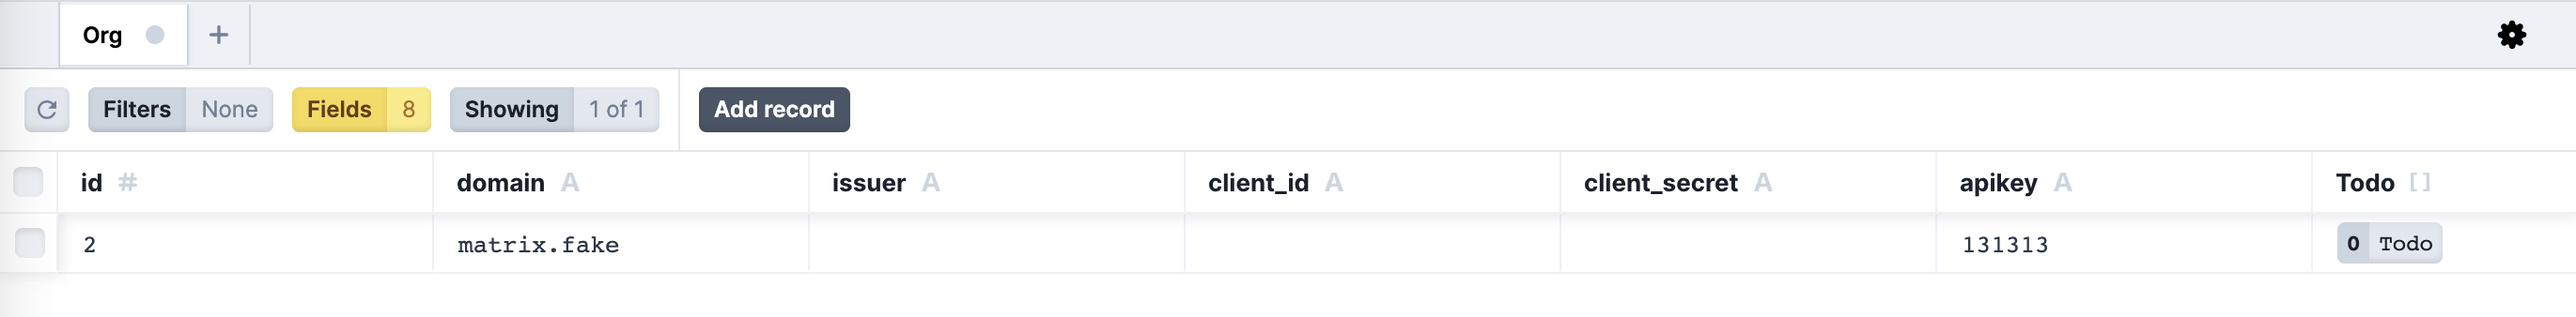
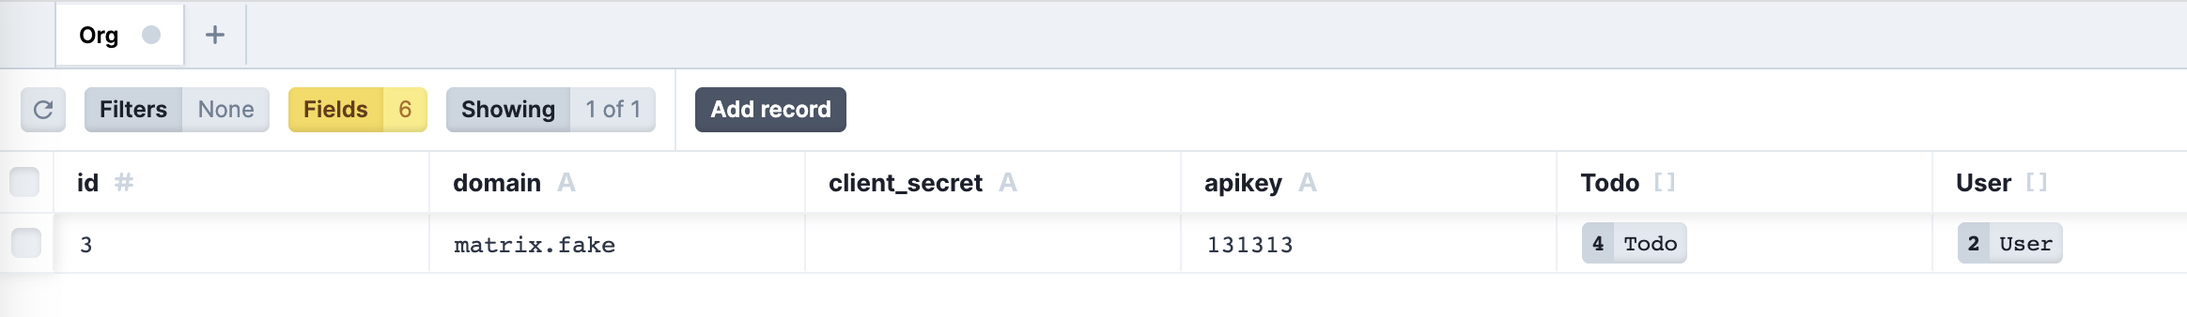
Text and updated image

diff --git a/_source/_posts/2023-07-31-workflows-workshop.md b/_source/_posts/2023-07-31-workflows-workshop.md
@@ -170,7 +170,7 @@ Here is again what you are going to build:
 
 Before building the flow, you need to get the Todo application.  
 
-## Getting the Todo application
+## Setting up the Todo application
 In this section, you will complete the following steps:  
 
 1. Get the Todo application
@@ -186,14 +186,8 @@ There are two ways to get the Todo application:
   1. Clone the [Todo application](https://github.com/oktadev/okta-enterprise-ready-workshops/) that already has OIDC support implemented. Run the following command `git checkout oidc-workshop-complete`
   2. [Download](https://github.com/oktadev/okta-enterprise-ready-workshops/tree/oidc-workshop-completed) the completed Todo application in a zip file
 
-### Launching the Todo application
 
-You will complete the following steps to launch the application: 
-- Installing application dependencies
-- Creating the database
-- Starting the application
-
-#### Installing application dependencies
+### Installing application dependencies
 
 1. Navigate to the folder where you cloned or downloaded the Todo application
     * If you downloaded the zip file, unzip the application file
@@ -204,7 +198,7 @@ npm install passport-http-bearer
 npm install @types/passport-http-bearer -D
 ```
 
-#### Creating the database
+### Creating the database
 
 Run the following command to generate a database and seed it with two users.  The user's name and password will write to the console.
 ```
@@ -215,36 +209,15 @@ The users are
 - User: trinity@whiterabbit.fake, password: Zion
 - User: bob@tables.fake, password: correct horse battery staple
 
-#### Starting the application
 
-To start both the front end and the API back end, run the following command:
 
-```
-npm start
-```
+### Adding an organziation to the application
 
-### Populating the todo items
+In a later step, you will enhance the application with a new API service to get all the todo items.
 
-In this step, you will create several todo items. 
+The new API retrieves all the todo items belonging to an organization. 
 
-1. In a browser, go to http://localhost:3000
-2. Sign in to the application. You can use one of the following users:
-    - User: trinity@whiterabbit.fake, password: Zion
-    - User: bob@tables.fake, password: correct horse battery staple
-3. Enter several todo items
-
-{% img blog/workflows-workshop/Workflows_todoapp.jpg alt:"Todo application with several items" %}{: .center-image }
-
-## Upgrading the Todo application with new capabilites
-
-You need to add a new reporting capability to the Todo application. To do that, you need to make two upgrades to the application: 
-
-1. Add an organziation to the Todo application. The report will show all the todo items that belong to an organziation
-2. Add a new API to get all the todo items for an organziation
-
-### Adding an organziation to the Todo application
-
-You will set up the organization in the application database. 
+In this step, you will set up an organization in the application database. 
 
 To view the database, run the following command from the application folder:
 
@@ -267,11 +240,37 @@ To create a new organiziation:
 2. Click **Add record** to add a new record
 3. In the **domain** column, enter **matrix.fake**
 4. In the **apikey** column, enter **131313** (you might need to scroll to the right to see this column)
+5. In the **User** column, click on **0 User** and select both users to add to this organziation (click outside the list to close it)
 5. Click **Save 1 change** button to save the new organization and its API key
 
-The organzition record should look like this (some columns are filtered/hidden to show both the domain and API key columns)
+The organziation record should look like this (some columns are filtered/hidden to show domain, API, and User columns)
 
 {% img blog/workflows-workshop/Workflows_prisma_db_org_record.jpg alt:"Database with new organization" %}{: .center-image }
+
+
+You are ready to start the application and create the todo items. 
+
+### Starting the application
+
+To start both the front end and the API back end, run the following command:
+
+```
+npm start
+```
+
+### Populating the todo items
+
+In this step, you will create several todo items. 
+
+1. In a browser, go to http://localhost:3000
+2. Sign in to the application. You can use one of the following users:
+    - User: trinity@whiterabbit.fake, password: Zion
+    - User: bob@tables.fake, password: correct horse battery staple
+3. Enter several todo items
+
+{% img blog/workflows-workshop/Workflows_todoapp.jpg alt:"Todo application with several items" %}{: .center-image }
+
+
 
 ### Adding a new API to get all the todo items
 todo
